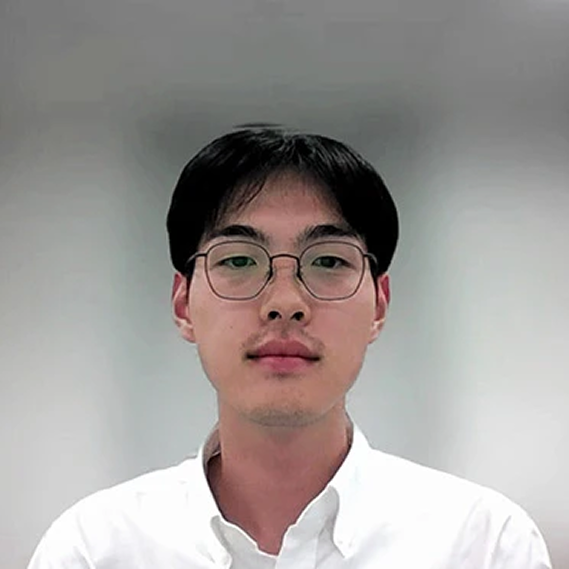
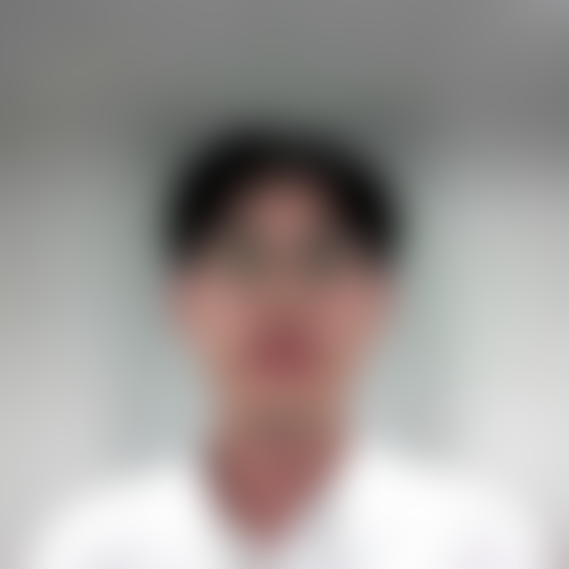
Apply Gaussian blur to candidate photo for privacy and add cache busting

diff --git a/index.html b/index.html
@@ -427,6 +427,7 @@
       padding: 0.22cqw;
       background: linear-gradient(135deg, rgba(255, 255, 255, 0.25), rgba(255, 255, 255, 0.05));
       box-shadow: 0 8px 24px rgba(0, 0, 0, 0.5);
+      overflow: hidden;
     }
 
     .report-candidate-photo {
@@ -435,6 +436,8 @@
       object-fit: cover;
       border-radius: 50%;
       display: block;
+      filter: blur(4px);
+      transform: scale(1.06);
     }
 
     /* Middle Details (replaces '72' position) */
@@ -949,7 +952,7 @@
           <!-- Top Row: Candidate Photo on Left, Details in Center (replaces 72), Score & Recommendation on Right -->
           <div class="report-top-row">
             <div class="report-photo-wrap">
-              <img class="report-candidate-photo" src="Public/Sara.png?v=2" alt="Candidate Photo">
+              <img class="report-candidate-photo" src="Public/Sara.png?v=3" alt="Candidate Photo">
             </div>
 
             <div class="report-details-col">
